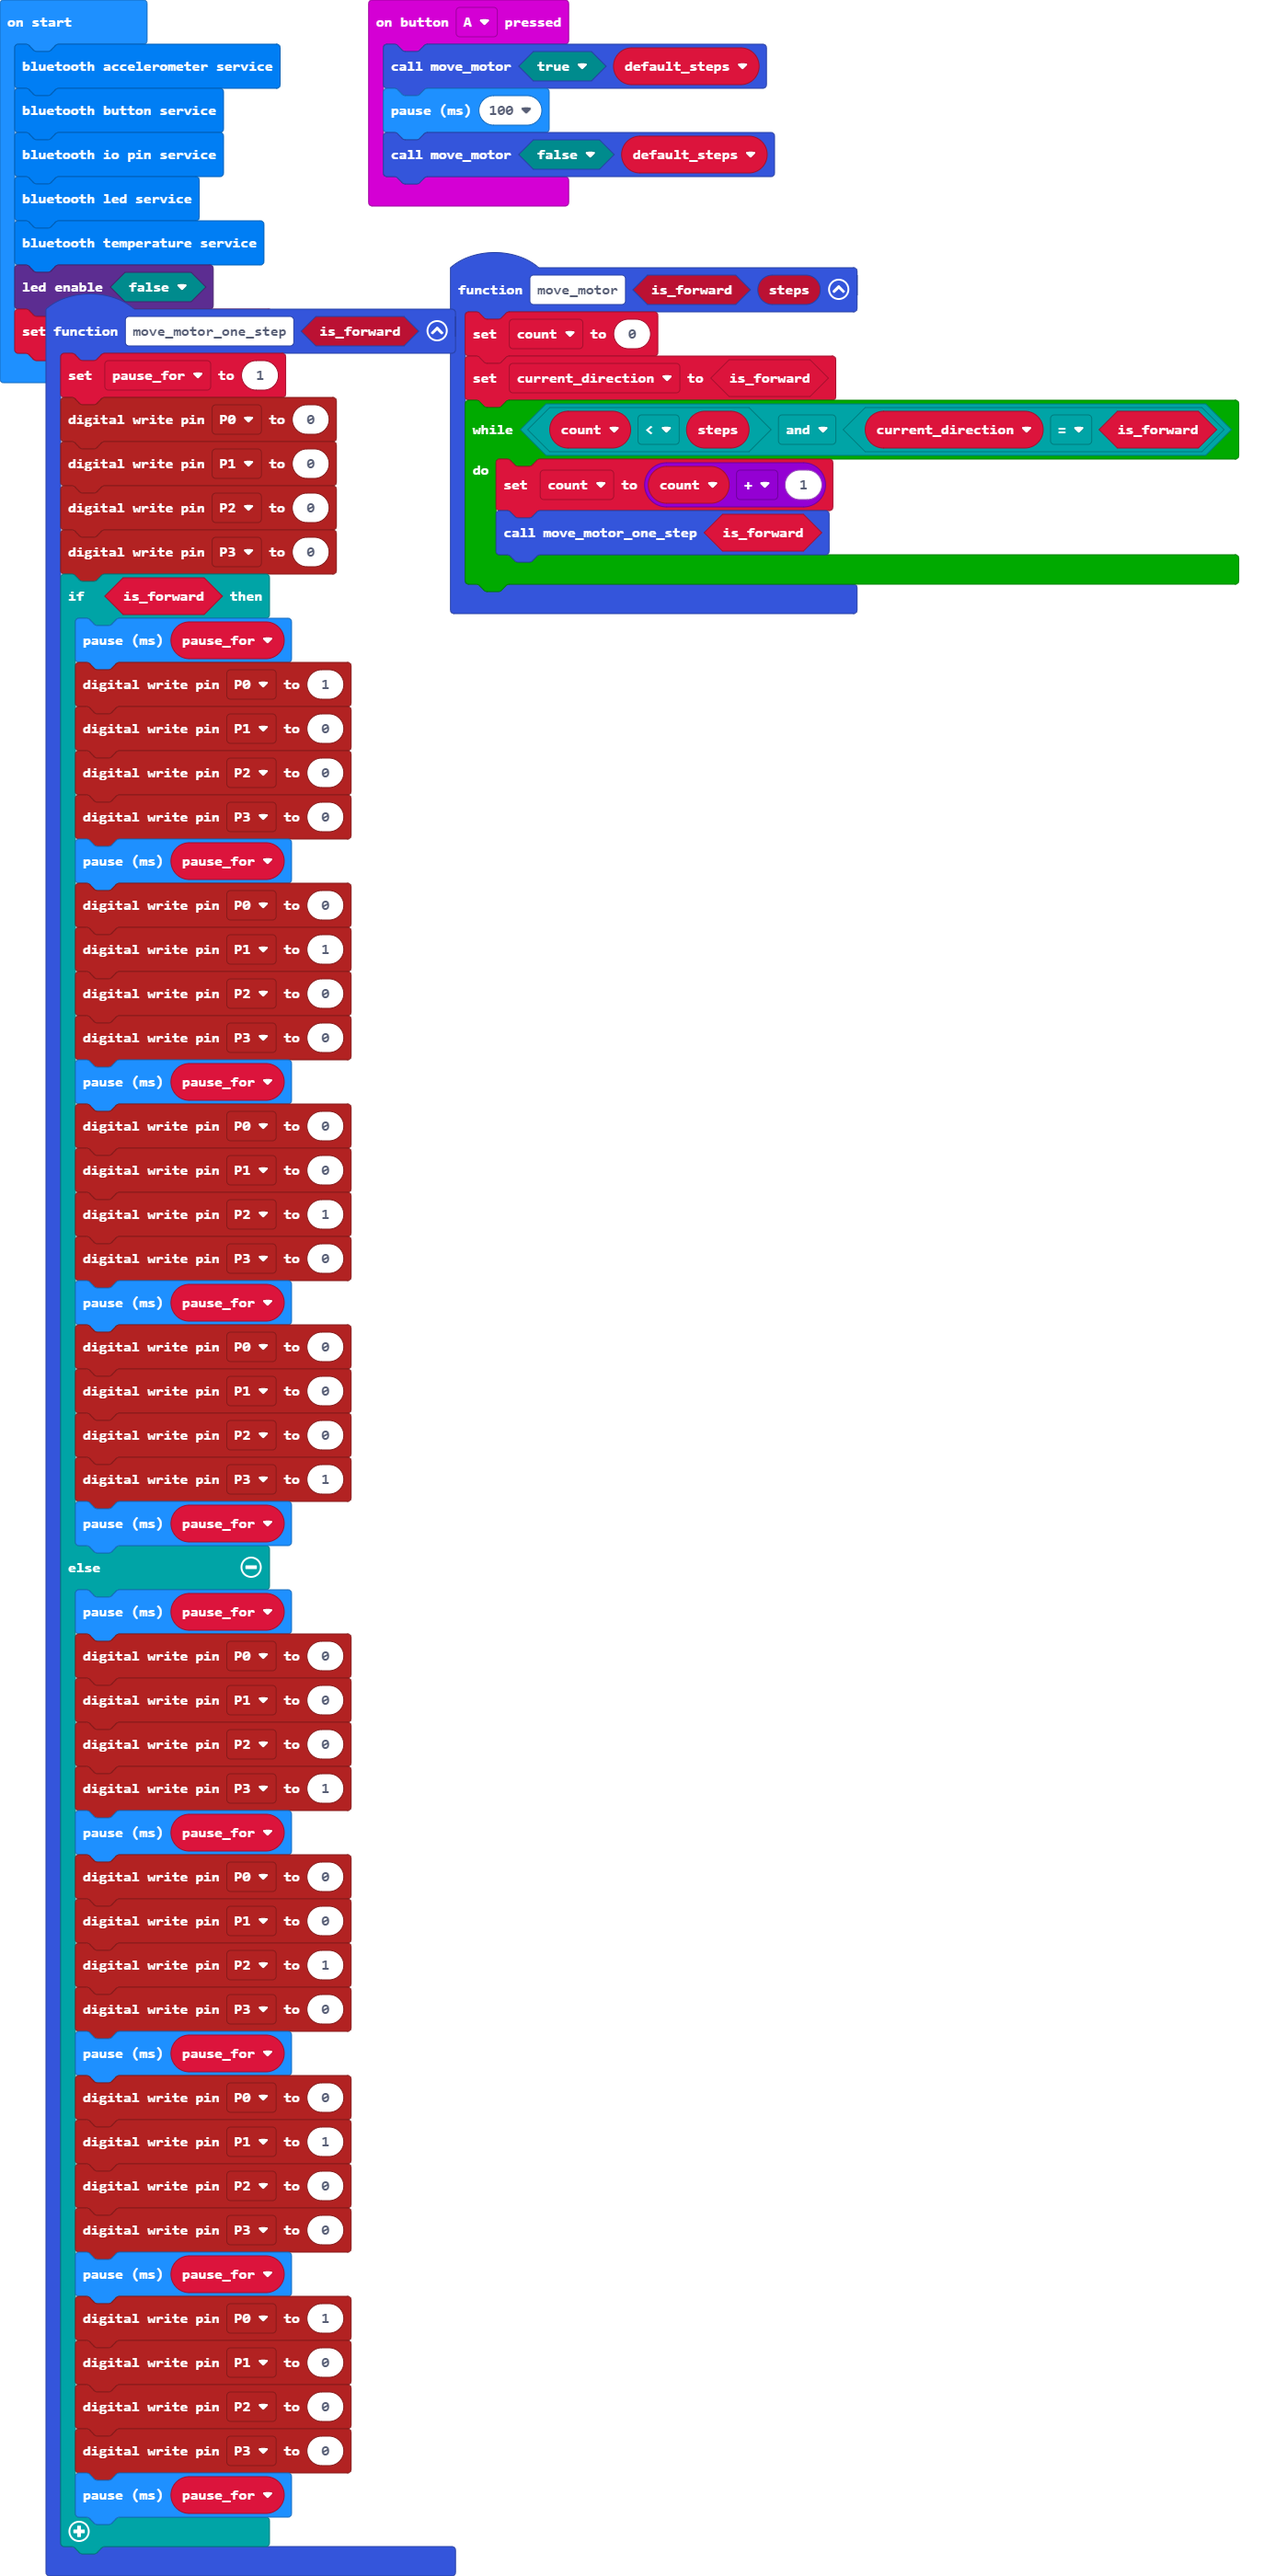
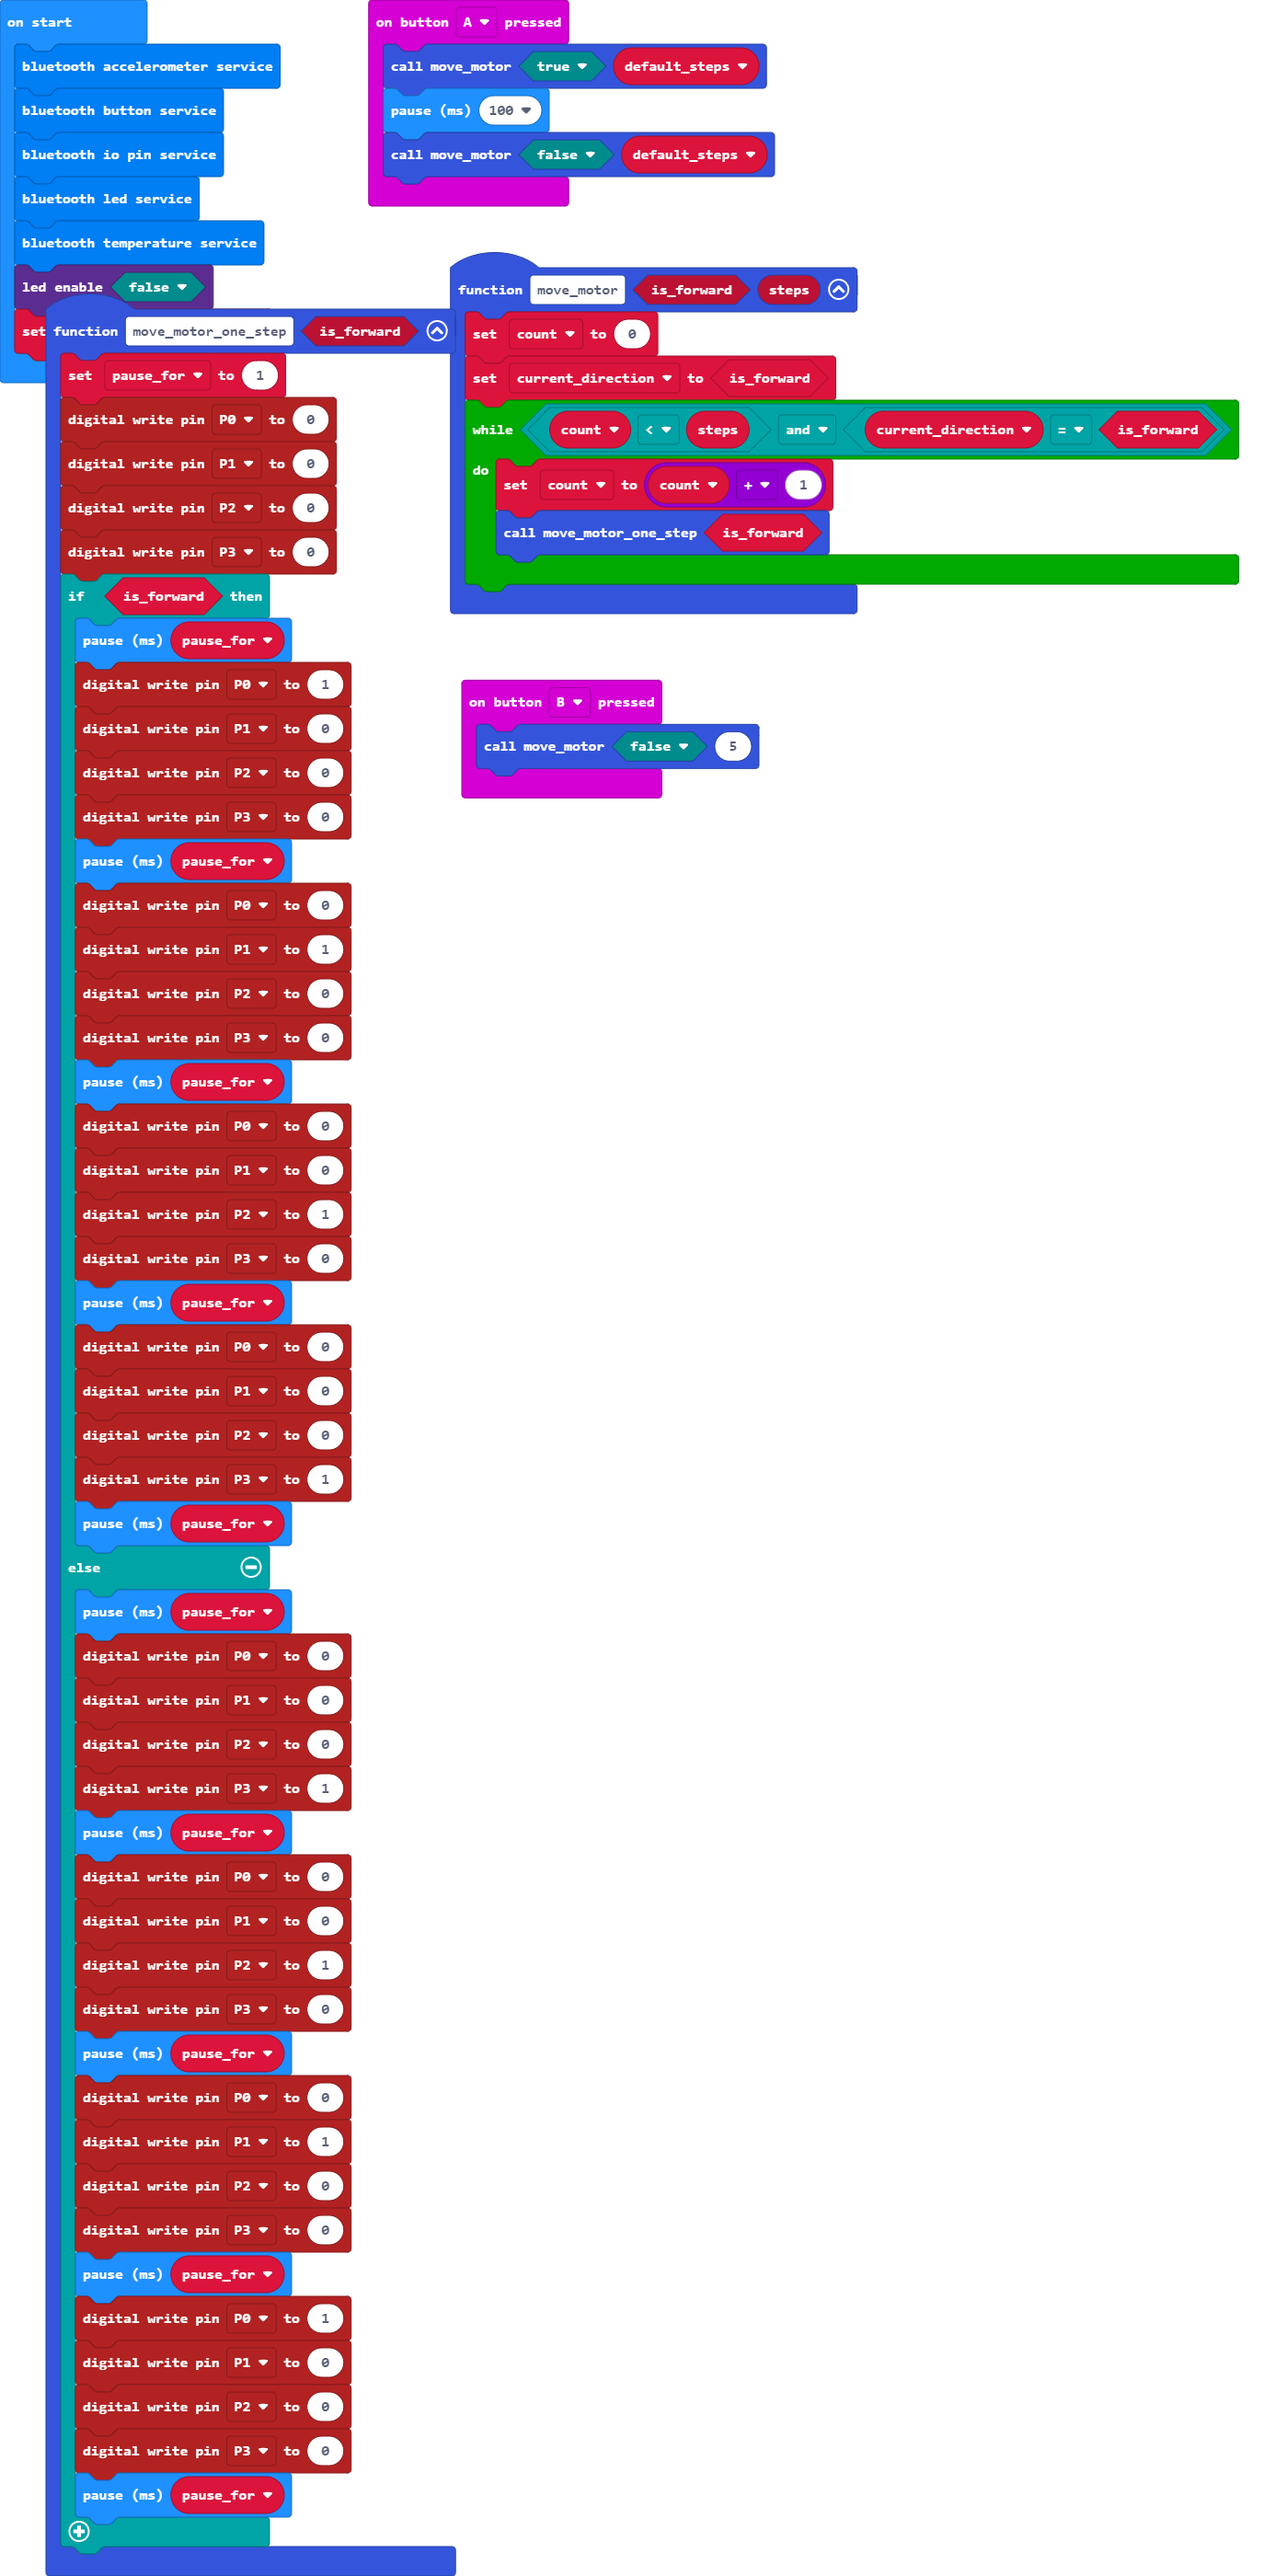
Added a close mouth function on button b press

Changed region(s): [[0.3381, 0.2486, 0.6147, 0.3107]]

diff --git a/main.ts b/main.ts
@@ -63,6 +63,9 @@ function move_motor_one_step (is_forward: boolean) {
         basic.pause(pause_for)
     }
 }
+input.onButtonPressed(Button.B, function () {
+    move_motor(false, 5)
+})
 let pause_for = 0
 let current_direction = false
 let count = 0
